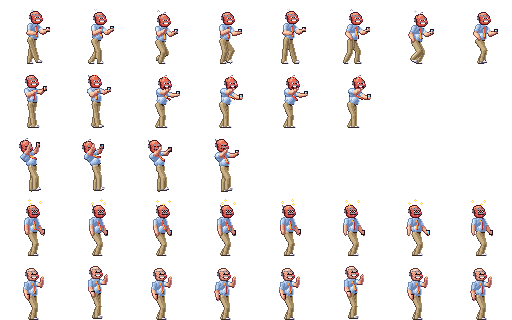
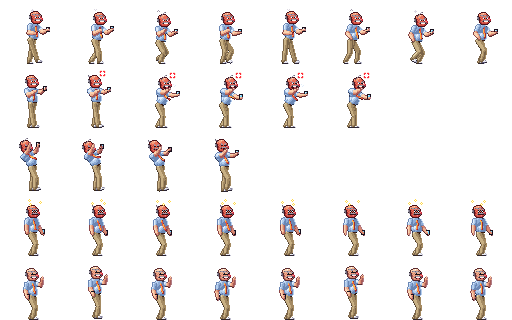
feat(looks): readable strum, cloth folds and in-scene action review for hibit
Artsy's attack now rips across the strings within the arm's real reach (the earlier
targets were out of reach, so the IK pinned his hand over the guitar and the strum never
read). Every outfit gains the folds a pixel artist would place - a crease behind a bent
knee or elbow, a lit kneecap, the hem bunching over the shoe - and legs are slimmer with
a wider idle stance so they no longer merge into one column.

The customer's anger mark floats beside his head with a pale rim; red on his red face
was invisible. The review tool gains an action shot per hero (muzzle on its anchor, the
projectile on the game's own speed and gravity, the impact on a recoiling customer), and
the two reference generations behind the cast are recorded in
tools/art/prompts/looks-hibit-characters.md.

diff --git a/tools/looks/hibit/characters/hibit/body.py b/tools/looks/hibit/characters/hibit/body.py
@@ -129,10 +129,11 @@ def arm(chain: Chain, outfit: Outfit, part: str, hand: bool = True) -> List[Prim
         basis=_basis(chain.frame),
         radii=(2.4 + sb, 2.5 + sb, 2.2 + sb),
     )
+    bend = _bend(chain)
     upper = Capsule(
         part=part,
         material=outfit.sleeve,
-        pattern=_short_sleeve(outfit) if outfit.short_sleeve is not None else outfit.sleeve_pattern,
+        pattern=_short_sleeve(outfit) if outfit.short_sleeve is not None else _folded(outfit.sleeve_pattern, "upper", bend),
         group=part,
         a=chain.root,
         b=chain.mid,
@@ -144,7 +145,8 @@ def arm(chain: Chain, outfit: Outfit, part: str, hand: bool = True) -> List[Prim
     fore = Capsule(
         part=part,
         material="skin" if outfit.short_sleeve is not None else outfit.sleeve,
-        pattern=None if outfit.short_sleeve is not None else (_cuffed(outfit) if outfit.cuff else outfit.sleeve_pattern),
+        pattern=None if outfit.short_sleeve is not None else _folded(
+            _cuffed(outfit) if outfit.cuff else outfit.sleeve_pattern, "fore", bend),
         group=part,
         a=chain.mid,
         b=fore_end,
@@ -191,6 +193,38 @@ def _cuffed(outfit: Outfit) -> Pattern:
     return pattern
 
 
+def _bend(chain: Chain) -> float:
+    """The joint's flexion in degrees (0 = straight)."""
+    a = norm(sub(chain.mid, chain.root))
+    b = norm(sub(chain.end, chain.mid))
+    c = max(-1.0, min(1.0, a[0] * b[0] + a[1] * b[1] + a[2] * b[2]))
+    return math.degrees(math.acos(c))
+
+
+def _folded(base: Optional[Pattern], role: str, bend: float) -> Pattern:
+    """Cloth folds a pixel artist would draw: a crease where a joint bends, a highlight on
+    the kneecap, the hem bunching over the shoe. Applied on top of the outfit's own pattern."""
+
+    def pattern(hit: Hit) -> Tuple[Optional[str], int]:
+        material, offset = base(hit) if base else (None, 0)
+        t, angle, _ = hit.local
+        a = abs(angle)
+        if role == "thigh" and bend > 18 and t > 0.8 and a > 2.1:
+            offset -= 1  # crease behind the knee
+        elif role == "shin":
+            if bend > 25 and t < 0.16 and a < 0.8:
+                offset += 1  # kneecap catching the light
+            elif t > 0.86 and a > 0.6:
+                offset -= 1  # hem bunching over the shoe
+        elif role == "upper" and bend > 35 and t > 0.78 and a < 1.0:
+            offset -= 1  # inside of the elbow
+        elif role == "fore" and bend > 35 and t < 0.18 and a < 1.0:
+            offset -= 1
+        return material, offset
+
+    return pattern
+
+
 def _short_sleeve(outfit: Outfit) -> Pattern:
     def pattern(hit: Hit) -> Tuple[Optional[str], int]:
         if hit.local[0] > (outfit.short_sleeve or 1.0):
@@ -204,26 +238,27 @@ def _short_sleeve(outfit: Outfit) -> Pattern:
 
 def leg(sk: Skeleton, chain: Chain, outfit: Outfit, part: str) -> List[Prim]:
     tb = outfit.trouser_bulk
+    bend = _bend(chain)
     thigh = Capsule(
         part=part,
         material=outfit.trousers,
-        pattern=outfit.trouser_pattern,
+        pattern=_folded(outfit.trouser_pattern, "thigh", bend),
         group=part,
         a=chain.root,
         b=chain.mid,
-        ra=2.85 + tb,
-        rb=2.3 + tb,
+        ra=2.65 + tb,
+        rb=2.15 + tb,
         ref=chain.frame.fwd,
     )
     shin = Capsule(
         part=part,
         material=outfit.trousers,
-        pattern=outfit.trouser_pattern,
+        pattern=_folded(outfit.trouser_pattern, "shin", bend),
         group=part,
         a=chain.mid,
         b=chain.end,
-        ra=2.3 + tb,
-        rb=2.0 + tb,
+        ra=2.15 + tb,
+        rb=1.9 + tb,
         ref=chain.frame.fwd,
     )
     foot = sk.foot_dir(chain)

diff --git a/tools/looks/hibit/characters/review.py b/tools/looks/hibit/characters/review.py
@@ -113,6 +113,64 @@ def scenes(directory: Path, scale: int) -> None:
         frame.resize((frame.width * scale, frame.height * scale), Image.NEAREST).save(directory / f"scene-{level_id}.png")
 
 
+def action(directory: Path, scale: int) -> None:
+    """Each hero firing at a customer: attack frame 0 with the muzzle flash on its anchor,
+    the projectile along its path (Artsy's paint lobbed on the game's arc), the impact on
+    a recoiling customer. One strip per hero, on the Berlin night."""
+    customer = customer_frames()
+    rows = []
+    for h in HEROES:
+        png = ART / "characters" / h / "sheet.png"
+        atk = ART / "characters" / h / "attack.png"
+        if not (png.exists() and atk.exists() and customer):
+            continue
+        frames, meta = load_sheet(png)
+        fx, _ = load_sheet(atk)
+        anchors = next(a for a in meta["animations"] if a["name"] == "attack")["anchors"]["muzzle"]
+        hero_x, feet = 70, 200
+        placements = [(frames["attack"][0], hero_x, feet)]
+        mx, my = anchors[0]
+        muzzle = (hero_x - 32 + mx, feet - 64 + my)
+        target_x = 250
+        level = level_scene("scripe", 300, [])
+        scene = level.copy()
+        hero_img = frames["attack"][0]
+        scene.alpha_composite(hero_img, (hero_x - 32, feet - 64))
+        cust = customer["hurt"][0].transpose(Image.FLIP_LEFT_RIGHT)
+        scene.alpha_composite(cust, (target_x - 32, feet - 64))
+        m = fx["muzzle"][0]
+        scene.alpha_composite(m, (muzzle[0] - 16, muzzle[1] - 16))
+        # The flight: the game's speed and gravity, sampled every few frames.
+        if h == "artsy":
+            vx, vy, g = 175.0, -150.0, 720.0
+        elif h == "hackerman":
+            vx, vy, g = 270.0, 0.0, 0.0
+        else:
+            vx, vy, g = 215.0, 0.0, 0.0
+        x, y = float(muzzle[0]), float(muzzle[1])
+        t = 0.0
+        k = 0
+        while x < target_x - 22:
+            t += 1 / 60
+            x = muzzle[0] + vx * t
+            y = muzzle[1] + vy * t + 0.5 * g * t * t
+            if int(t * 60) % 9 == 4:
+                p = fx["projectile"][k % len(fx["projectile"])]
+                scene.alpha_composite(p, (int(x) - 16, int(y) - 16))
+                k += 1
+        impact = fx["impact"][1]
+        scene.alpha_composite(impact, (target_x - 8 - 16, int(feet - 36) - 16))
+        rows.append(scene.crop((20, 120, 300, 210)))
+    if not rows:
+        return
+    out = Image.new("RGBA", (rows[0].width * scale, sum(r.height * scale + 4 for r in rows)), (0, 0, 0, 255))
+    y = 0
+    for r in rows:
+        out.alpha_composite(r.resize((r.width * scale, r.height * scale), Image.NEAREST), (0, y))
+        y += r.height * scale + 4
+    out.save(directory / "action.png")
+
+
 def select_screen(directory: Path, scale: int) -> None:
     """Each hero on the character-select pedestal (native 320x240, feet at the old sprite's)."""
     base = Image.open(REFS / "current-character-select.png").convert("RGBA").resize((320, 240), Image.NEAREST)
@@ -173,6 +231,7 @@ def main(argv: Sequence[str]) -> int:
     args.out.mkdir(parents=True, exist_ok=True)
     sheets(args.out, args.scale)
     scenes(args.out, args.scale)
+    action(args.out, args.scale)
     select_screen(args.out, args.scale)
     style_reference(args.out, args.scale)
     print(args.out)

diff --git a/tools/looks/hibit/characters/hibit/heroes.py b/tools/looks/hibit/characters/hibit/heroes.py
@@ -69,7 +69,7 @@ def idle_body(i: int) -> FrameSpec:
     breath = math.sin(2 * math.pi * t)
     pose = Pose(y=0.55 * breath - 0.4, lean=-1.0 + 0.6 * breath, chest_lean=-1.0, hip_yaw=30.0, chest_yaw=50.0,
                 roll=-2.0)
-    pose = planted(pose, near=(3.6, 0.8), far=(-2.6, -0.5), near_pitch=4.0)
+    pose = planted(pose, near=(5.4, 1.0), far=(-4.2, -0.8), near_pitch=4.0)
     face = "blink" if i == 8 else "smile"
     # The hair lags the breath: it floats a moment after the chest drops.
     hair = "lift" if i in (7,) else "rest"
@@ -400,27 +400,27 @@ def artsy_carry(anim: str, i: int, spec: FrameSpec) -> FrameSpec:
 
 
 def artsy_attack() -> List[FrameSpec]:
-    """Power strum: the hand rips down across the strings on frame 0 (paint flies), follows
-    through, the strings ring, and the arm winds back up for the next strum.
-    Six frames at 20 fps = 0.3 s, Artsy's fire rate."""
+    """Power strum. Frame 0 is the rip: the hand has torn down across the strings (a fan
+    smear from the wind-up crosses them) and the paint flies off the guitar. Then the
+    follow-through, the guitar bucking with the strings ringing, and the hand climbs back
+    above the strings to wind up the next strum. Six frames at 20 fps = 0.3 s, his fire rate."""
     keys = [
-        # (near hand offset from strum, guitar angle, lean, face, ring, smear)
-        ((1.0, 6.0), 21.0, 6.0, "cheer", 0, True),
-        ((3.0, 9.0), 20.0, 7.0, "cheer", 1, False),
-        ((1.0, 6.0), 23.0, 5.0, "smile", 2, False),
-        ((-1.0, 1.0), 24.0, 4.0, "smile", 3, False),
-        ((-2.0, -5.0), 25.0, 3.0, "focus", -1, False),
-        ((-2.0, -8.0), 25.0, 2.0, "focus", -1, False),
+        # (near hand, guitar angle, lean, face, hair, ring, smear)
+        (HandAt(37.0, 34.0, 7.0), 21.0, 7.0, "cheer", "sweep", 0, True),
+        (HandAt(38.0, 36.0, 7.0), 20.0, 8.0, "cheer", "sweep", 1, False),
+        (HandAt(36.0, 33.0, 7.0), 23.0, 6.0, "smile", "rest", 2, False),
+        (HandAt(34.0, 29.0, 7.0), 24.0, 4.0, "smile", "rest", 3, False),
+        (HandAt(31.0, 24.0, 6.0), 25.0, 2.0, "focus", "rest", -1, False),
+        (HandAt(30.0, 21.0, 6.0), 25.0, 1.0, "focus", "lift", -1, False),
     ]
     out = []
-    for i, ((dx, dy), angle, lean, face, ring, smeared) in enumerate(keys):
-        base = planted(Pose(lean=lean, chest_lean=2.0, hip_yaw=30.0, chest_yaw=50.0, y=-0.8),
-                       near=(4.0, 0.8), far=(-3.5, -0.6))
+    for i, (hand, angle, lean, face, hair, ring, smeared) in enumerate(keys):
+        base = planted(Pose(lean=lean, chest_lean=2.0, hip_yaw=30.0, chest_yaw=50.0, y=-1.0),
+                       near=(5.0, 1.0), far=(-4.0, -0.8))
         out.append(FrameSpec(
-            base, face=face, hair="sweep" if i < 2 else "rest", glint=i == 2,
-            prop=replace(_SLUNG, angle=angle, variant=f"ring:{ring}" if ring >= 0 else ""),
-            near_hand=Grip("strum", (dx, dy), depth=2.0),
-            far_hand=Grip("neck"),
+            base, face=face, hair=hair, glint=i == 2,
+            prop=replace(_SLUNG, angle=angle, at=(0.0, 5.0), variant=f"ring:{ring}" if ring >= 0 else ""),
+            near_hand=hand, far_hand=Grip("neck"),
             anchors={"muzzle": "muzzle"},
             smear=("near",) if smeared else (),
         ))

diff --git a/tools/looks/hibit/characters/hibit/customer.py b/tools/looks/hibit/characters/hibit/customer.py
@@ -208,11 +208,17 @@ STEAM = [
     Sprite.parse("L.L\n.L.", {"L": "#dcd8e2"}),
     Sprite.parse(".L.\nL.L", {"L": "#a29cac"}),
 ]
+#: The manga anger mark, floating off his forehead: bright red ridges with a pale rim so it
+#: still pops against a furious red face.
 VEIN = Sprite.parse("""
-r.r
-.r.
-r.r
-""", {"r": "#ff5a4a"})
+.ww.ww.
+wrr.rrw
+wr...rw
+.......
+wr...rw
+wrr.rrw
+.ww.ww.
+""", {"r": "#ff2a3a", "w": "#ffe2d6"})
 SPIT = Sprite.parse("""
 E..
 ..E
@@ -317,7 +323,7 @@ def shout() -> List[FrameSpec]:
                         near_arm=Limb(swing=50.0 + 40.0 * (up > 0.8), spread=30.0, bend=70.0 - 30.0 * (up > 0.8)))
         head_fx = []
         if "vein" in fx:
-            head_fx.append((VEIN, 1, -12))
+            head_fx.append((VEIN, 6, -17))
         if "spit" in fx:
             head_fx.append((SPIT, 10, -5))
         out.append(FrameSpec(pose, face=face, hair=strand, head_dx=1 if (face == "shout" and i % 2) else 0,

diff --git a/tools/art/prompts/looks-hibit-characters.md b/tools/art/prompts/looks-hibit-characters.md
@@ -1,0 +1,49 @@
+# HI-BIT look · characters and customer: image-generation prompts
+
+The hibit cast (`src/game/art/looks/hibit/characters/**`, `src/game/art/looks/hibit/customer/**`) is built by `tools/looks/hibit/characters/build.py`.
+No generated pixels ship. Bodies are 3D volumes rendered straight to native pixels, and everything that carries identity is hand-placed pixel art: the likeness head kit, the Strat, the keyboard, hands, the customer's head and every effect sprite.
+
+Image generation was used twice, for design reference only:
+
+- to calibrate costumes, props and proportions;
+- to see how a pixel artist compresses Roel's face into a ~14 px head before hand-placing the kit.
+
+Raw sources live outside the repo in `.looks-art-sources/hibit/characters/` (next to the checkouts).
+Both were generated once with Codex CLI image generation (one image per call), using the captain's photos as references:
+
+```sh
+codex exec --skip-git-repo-check -s workspace-write -C <scratch dir> \
+  -i roel-photo-smile-closeup.jpg -i roel-photo-white-shirt-blazer.jpg -i roel-photo-cap-sweater.jpg \
+  [-i room-stratocaster-olympic-white.png] -- "<PROMPT>"
+```
+
+## gen-heroes/heroes-model-sheet.png: the three heroes (reference for outfits, props, palette)
+
+Also passed `-i room-stratocaster-olympic-white.png`.
+
+```text
+Use your image generation tool to generate ONE image: Hi-bit pixel art character model sheet in the style of Owlboy, Dead Cells and Eastward: three full-body game sprites of the SAME real man shown in the attached photos, drawn as a faithful, instantly recognisable likeness: large round panto glasses with a dark heavy upper rim and thin lower rims, ash-blonde / light-brown hair with sun-blonde highlights swept up and back off the forehead with real volume and a soft wave, a few loose strands falling onto the forehead, shorter at the sides with the ears visible, a long oval face with a defined jaw, light warm skin, a big warm toothy smile, a slim lean build. All three stand in a three-quarter view facing right, side by side with generous space between them, on a flat solid pure magenta #FF00FF background. LEFT, the hacker: a black hoodie with the hood DOWN, bunched around the neck and shoulders, drawstrings with neon terminal-green tips, dark slim jeans, white sneakers; he holds a chunky black mechanical computer keyboard slung diagonally across his body like a keytar, its light keycaps clearly visible and a green RGB underglow along its edge. MIDDLE, the designer: a washed charcoal-grey baseball cap worn forward with hair sticking out at the sides and back and the glasses under the brim, a loose black-and-grey tie-dye knit sweater, dark brown trousers, dark sneakers; he holds the Olympic White Fender Stratocaster from the attached photo across his body with the neck pointing forward and up: cream-white double-cutaway body, pale mint pickguard with three white single-coil pickups, dark rosewood fingerboard with dot inlays, maple neck, six-in-line natural-wood headstock, chrome bridge. RIGHT, the strategist: a crisp white shirt with an open collar under an open dark navy blazer, dark trousers, brown leather shoes, holding a small yellow sticky-note pad, confident consultant stance. Each sprite is about 60 art pixels tall and every art pixel is a crisp 8x8 block of image pixels; hand-placed pixel art, rich hue-shifted ramps of 5 to 6 tones per material, coloured outlines that lighten on lit edges, light from the top-left, a subtle cool cyan rim light on the right-hand edges, no anti-aliasing, no blur, no text, no letters, no UI. Landscape 1536x1024. Then copy the generated image file into the current working directory as heroes-model-sheet.png and print its absolute path and pixel dimensions. Do not do anything else.
+```
+
+What it settled:
+
+- the keytar hold with its green underglow;
+- the Strat carried neck-forward and up;
+- the white shirt under a navy blazer, with brown shoes and a pad of notes;
+- roughly six heads tall at this resolution, which the hibit kit nudges towards 5.5 for likeness.
+
+## gen-heads/heads-sheet.png: the likeness at sprite scale (reference for the head kit)
+
+```text
+Use your image generation tool to generate ONE image: a tiny low-resolution pixel art head sprite sheet of the real man in the attached photos, for a 16-bit hi-bit game in the style of Owlboy and Eastward. Eight heads in a 4 x 2 grid with lots of space between them, all in a three-quarter view facing RIGHT, on a flat solid pure magenta #FF00FF background. Each head is only about 14 art pixels tall and 13 art pixels wide (hair top to chin), and every art pixel is a large crisp square block of exactly 32 x 32 image pixels, so the pixel grid is perfectly regular and clearly visible. The likeness must be instantly recognisable even at this tiny size: ash-blonde / light-brown hair with sun-blonde highlights swept UP and BACK off the forehead in a high soft wave with real volume, a couple of loose strands falling onto the forehead at the front, shorter at the sides with the ear visible; large round panto glasses drawn as two clear rings with a darker heavy upper rim and thin grey lower rims, the eyes visible inside the lenses, the far lens narrower; a long oval face with a defined jaw, light warm skin. Top row, bare head: (1) big warm toothy smile, (2) neutral relaxed closed-mouth smile, (3) focused and determined, brows lowered, (4) hurt, eyes squeezed shut and teeth gritted. Bottom row, the same four expressions wearing a washed charcoal-grey baseball cap worn forward with the brim pointing right, hair sticking out at the side and back, the glasses under the brim. Hand-placed pixel art, 4 to 5 tone hue-shifted ramps, coloured outlines, light from the top-left, no anti-aliasing, no blur, no text. Landscape 1536x1024. Then copy the generated image file into the current working directory as heads-sheet.png and print its absolute path and pixel dimensions. Do not do anything else.
+```
+
+The model drew ~45-pixel heads rather than 14, so the sheet is a stylisation reference, not a source.
+What it settled, all hand-placed in `tools/looks/hibit/characters/hibit/head.py`:
+
+- the far lens and its hinge poking past the cheek;
+- the forehead lock;
+- the long angled jaw;
+- the cap's brim line.
+
+The face's silhouette was fitted to the reference's alpha mask at the kit's exact size.
